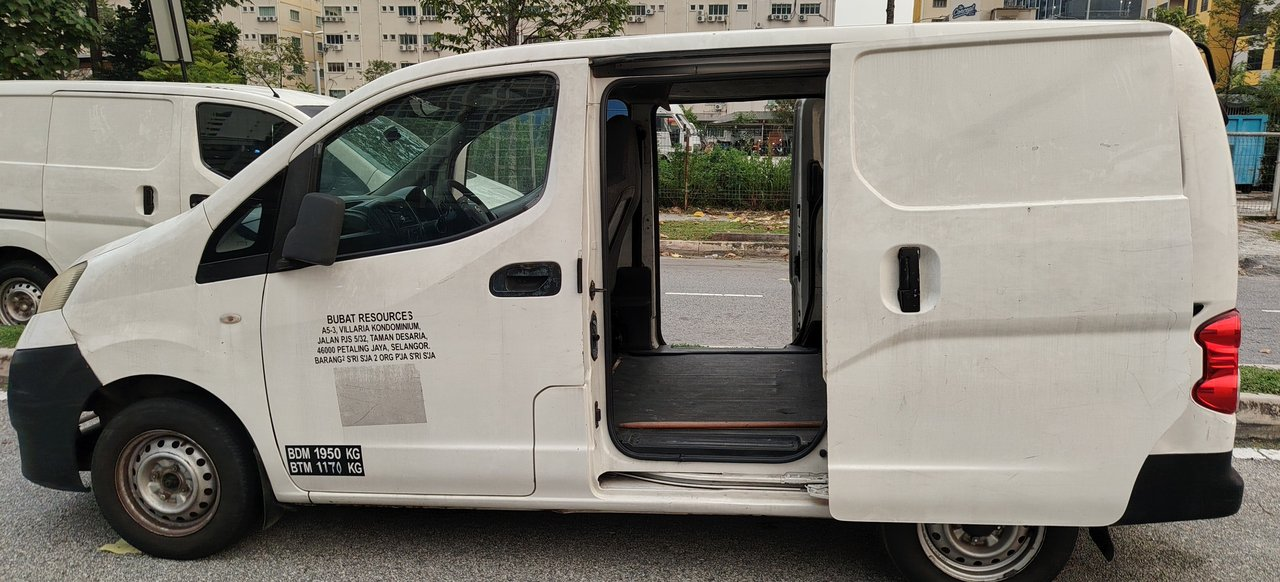
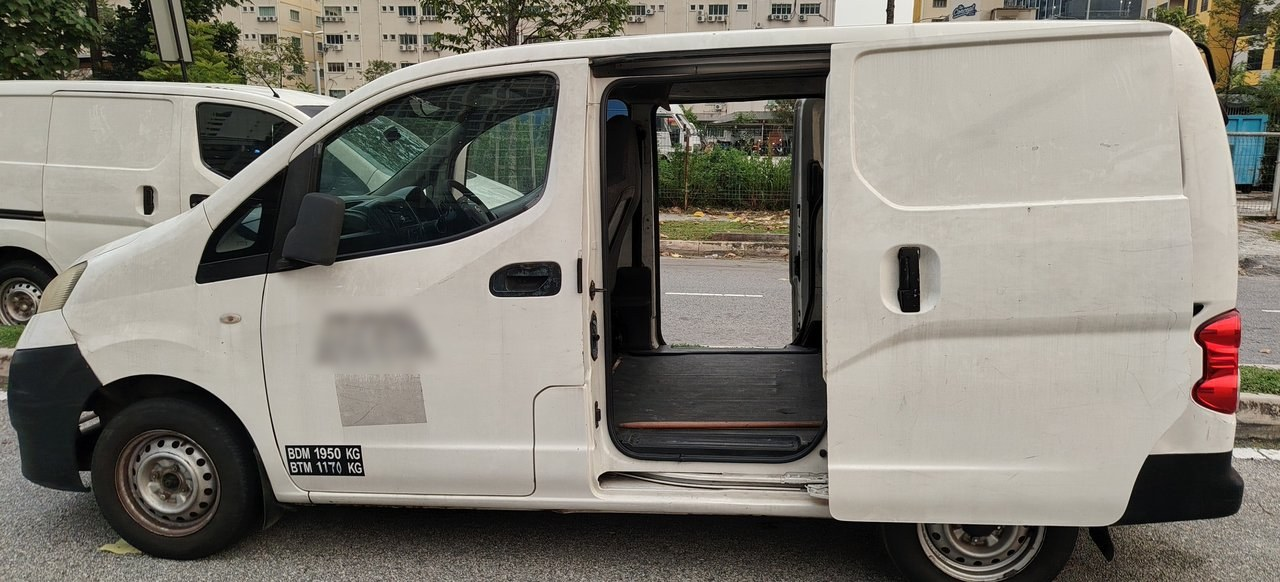
fix: blur the company address sticker on the W 9490 C and WA 5202 F photos

Changed region(s): [[0.25, 0.5258, 0.3438, 0.6495]]

diff --git a/src/data/changelog.js b/src/data/changelog.js
@@ -19,6 +19,12 @@ export const CHANGELOG = [
         text: 'The Gran Max WB 4690 R now has a gallery of the owner’s photos (front, rear, side, cabin and cargo area) instead of the stock picture.',
         link: '/admin/cars',
       },
+      {
+        kind: 'fixed',
+        title: 'Company address hidden on the van photos',
+        text: 'The door sticker with the company address is now blurred on the photos of WB 4690 R, W 9490 C and WA 5202 F.',
+        link: '/admin/cars',
+      },
     ],
   },
   {
